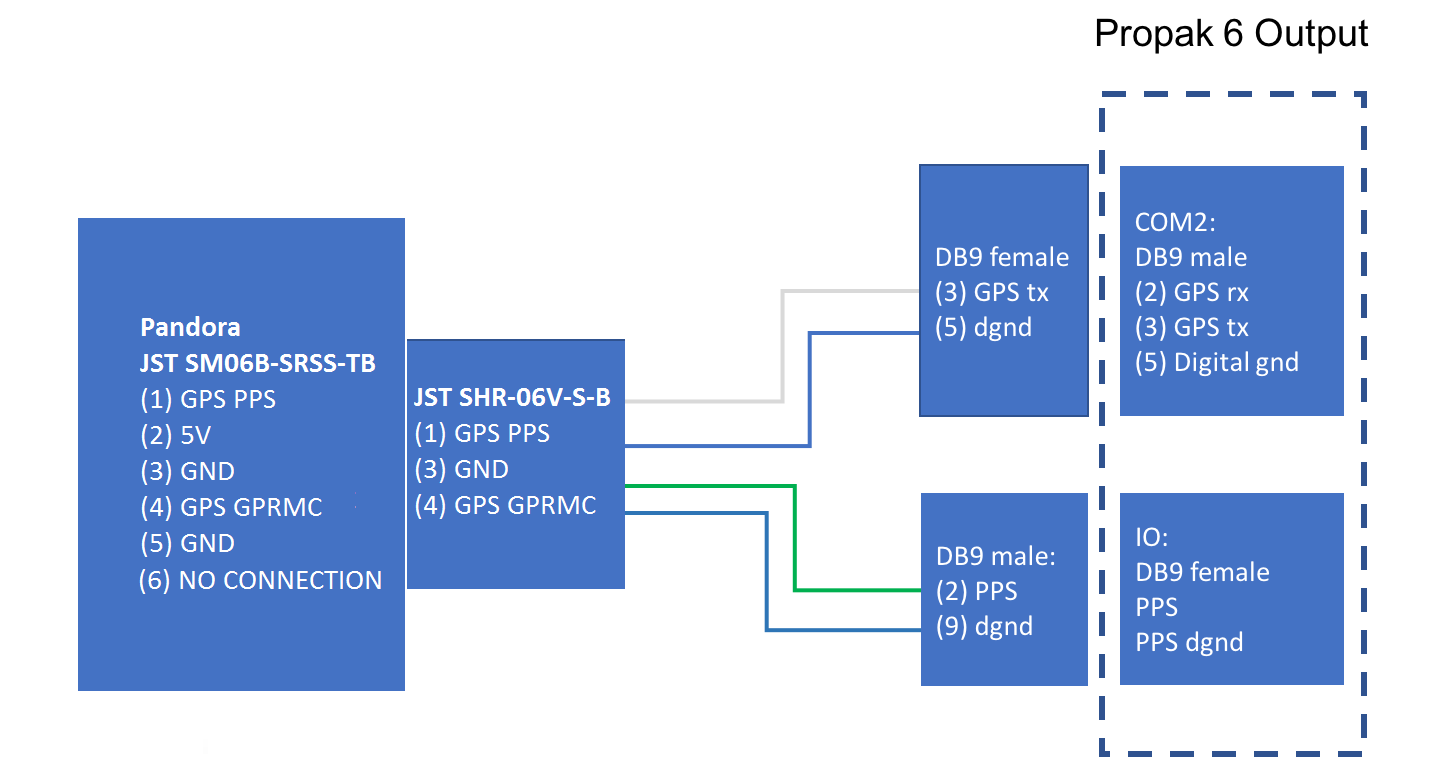
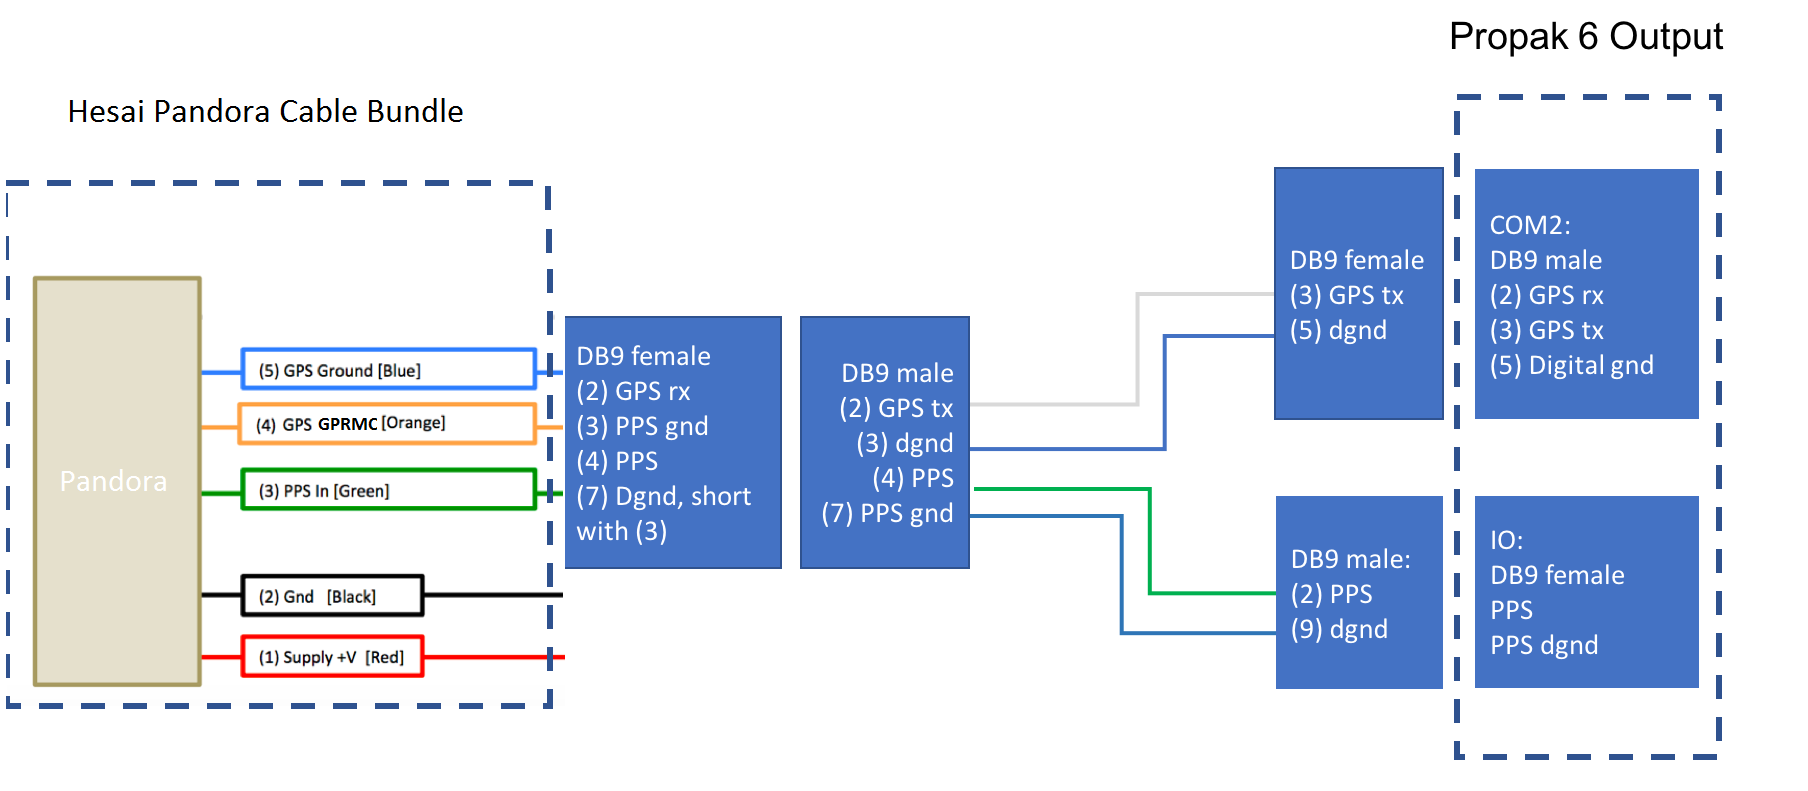
revise2

diff --git a/apollo pandora/apollo_2_0_hardware_system_installation_guide_v1.md b/apollo pandora/apollo_2_0_hardware_system_installation_guide_v1.md
@@ -260,12 +260,12 @@ The 40 line LiDAR system **Pandora** is available from Hesai Photonics Technolog
 - 23° Vertical FOV (-16° to 7°)
 - 0.2° angular resolution (azimuth)
 - <2cm accuracy
-- Vertical Resolution: 0.33° ( from -6° to +2°); 1° (from -16° to -6°，+2° to +7°)
+- Vertical Resolution: 0.33° ( from -6° to +2°); 1° (from -16° to -6°, +2° to +7°)
 - User selectable frame rate
 - 360° surrounding view with 4 mono cameras and long disatance front view with 1 color camera
 
 ![online](images/online_icon.png)Webpage for Hesai Pandora:
-[http://www.hesaitech.com](http://www.hesaitech.com)
+[http://www.hesaitech.com](http://www.hesaitech.com) (coming soon)
 
 ## Cameras
 
@@ -702,7 +702,7 @@ Each HDL-64E S3 LiDAR includes a cable bundle to connect the LiDAR to the power 
 
 3. Conection to IPC
 
-   The connection to the IPC is through an ethernet cable. Plug the ethernet connector in the cable bundle into an ethernet port on the IPC
+   The connection to the IPC is through an ethernet cable. Plug the ethernet connector in the cable bundle into an ethernet port on the IPC.
 
 4. Connection to GPS:
 
@@ -776,19 +776,28 @@ A customized mounting structure is required to successfully mount an Hesai Pando
 
 ##### Wiring
 
-The Pandora should be connected to the power supply, the computer (Ethernet for data transfer) and the GPS timesync source through an interface box.
+Each Pandora includes a cable bundle to connect the LiDAR to the power supply, the computer (Ethernet for data transfer) and the GPS timesync source. 
 
-   ![Interface_box](images/interface_box.png)
+![Pandora_cable](images/pandora_cable.png)
 
-1. Connection between the interface box and the power supply:
+1. Connection to the Pandora
 
-   The power cable including two wires should be made by the user. One end of the cable is connected to the interface box DC-005 jack and the other is connected to the power supply. Pandora requires about 3A at 12V. 
+   Connect the power and signal cable to the matching ports on the Pandora interface box.
 
-2. Connection between the interface box and the IPC:
+   ![Power_Cabling](images/interface_box_connection.png) 
 
-   One ethernet cable is required to connect the interface box to the IPC. 
 
-3. Connection between the interface box and GPS:
+2. Connection to Power Source
+
+   The Pandora requires about 3A at 12V. To connect the power source, make full contact with the wires and tighten the screws. 
+
+   ![Pandora_Power_Cable](images/Pandora_PowerCable.png)
+
+3. Conection to IPC
+
+   The connection to the IPC is through an ethernet cable. Plug the ethernet connector in the cable bundle into an ethernet port on the IPC.
+
+4. Connection to GPS:
 
    The Pandora requires the Recommended minimum specific GPS/Transit data (GPRMC) and pulse per second (PPS)signal to synchronize to the GPS time. A customized connection is needed to establish the communication between the GPS receiver and the LiDAR:
 
@@ -804,8 +813,10 @@ The Pandora should be connected to the power supply, the computer (Ethernet for 
 
    ![Wiring_Schematics_pandora2](images/Pandora_PP6_wiring.png)
 
+   ![Pandora_pin](images/Pandora_pinout_table.png)
+
  ![online_icon](images/online_icon.png)Pandora Manual can be found on this webpage:
-[http://www.hesaitech.com](http://www.hesaitech.com)
+[http://www.hesaitech.com](http://www.hesaitech.com) (coming soon)
 
 ### Installing the Cameras
 
